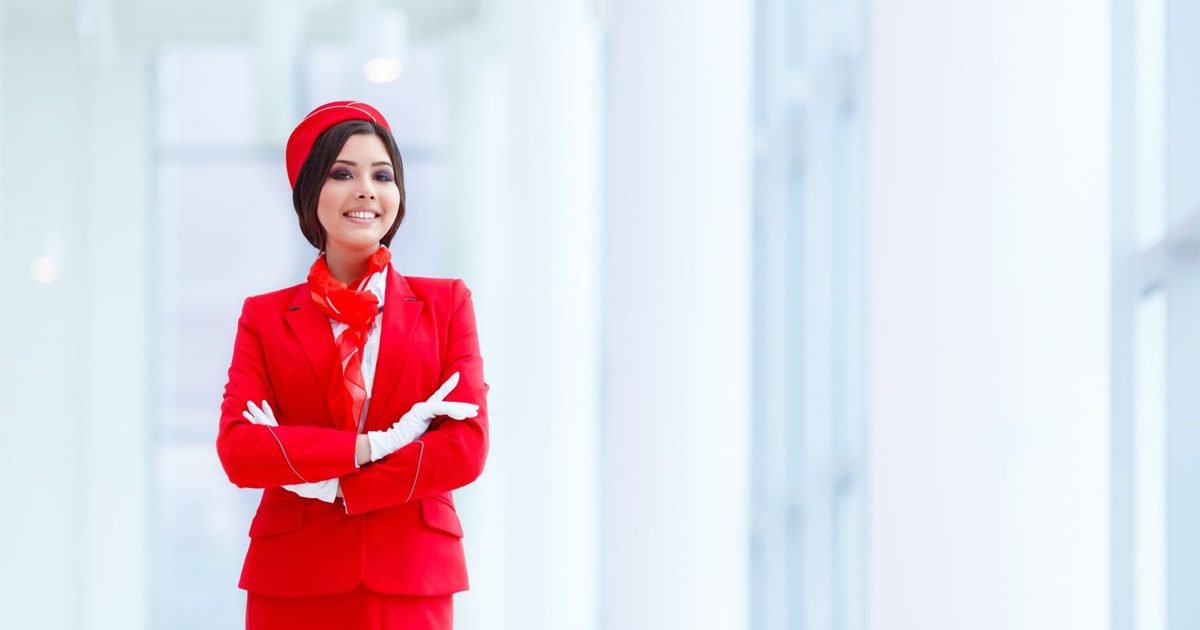
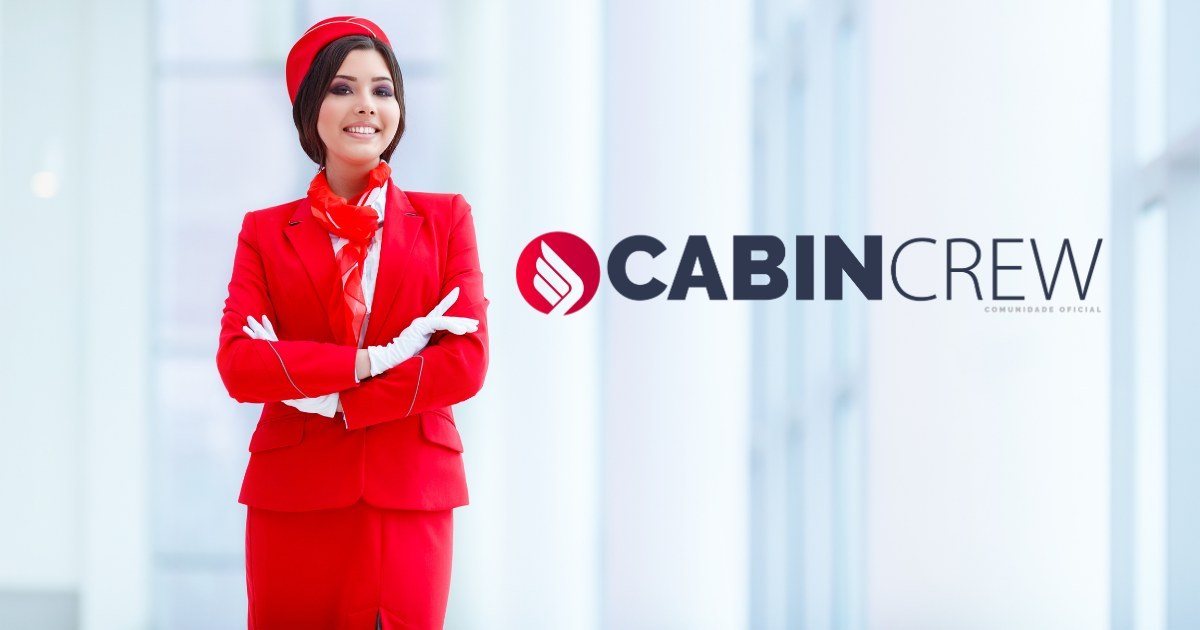
Nova imagem de compartilhamento (OG)
Claude-Session: https://claude.ai/code/session_01P7LdNSnKRtwecDMbW37BDE

diff --git a/src/app/layout.tsx b/src/app/layout.tsx
@@ -28,6 +28,7 @@ export const metadata: Metadata = {
   description:
     "O preparatório que acompanha você em cada fase da seleção para comissário de voo.",
   openGraph: { siteName: "Cabin Crew", locale: "pt_BR", type: "website" },
+  twitter: { card: "summary_large_image" },
 };
 
 /** Em manutenção, só passam administradores, o login da equipe (/entrar?equipe) e o retorno do login. */
